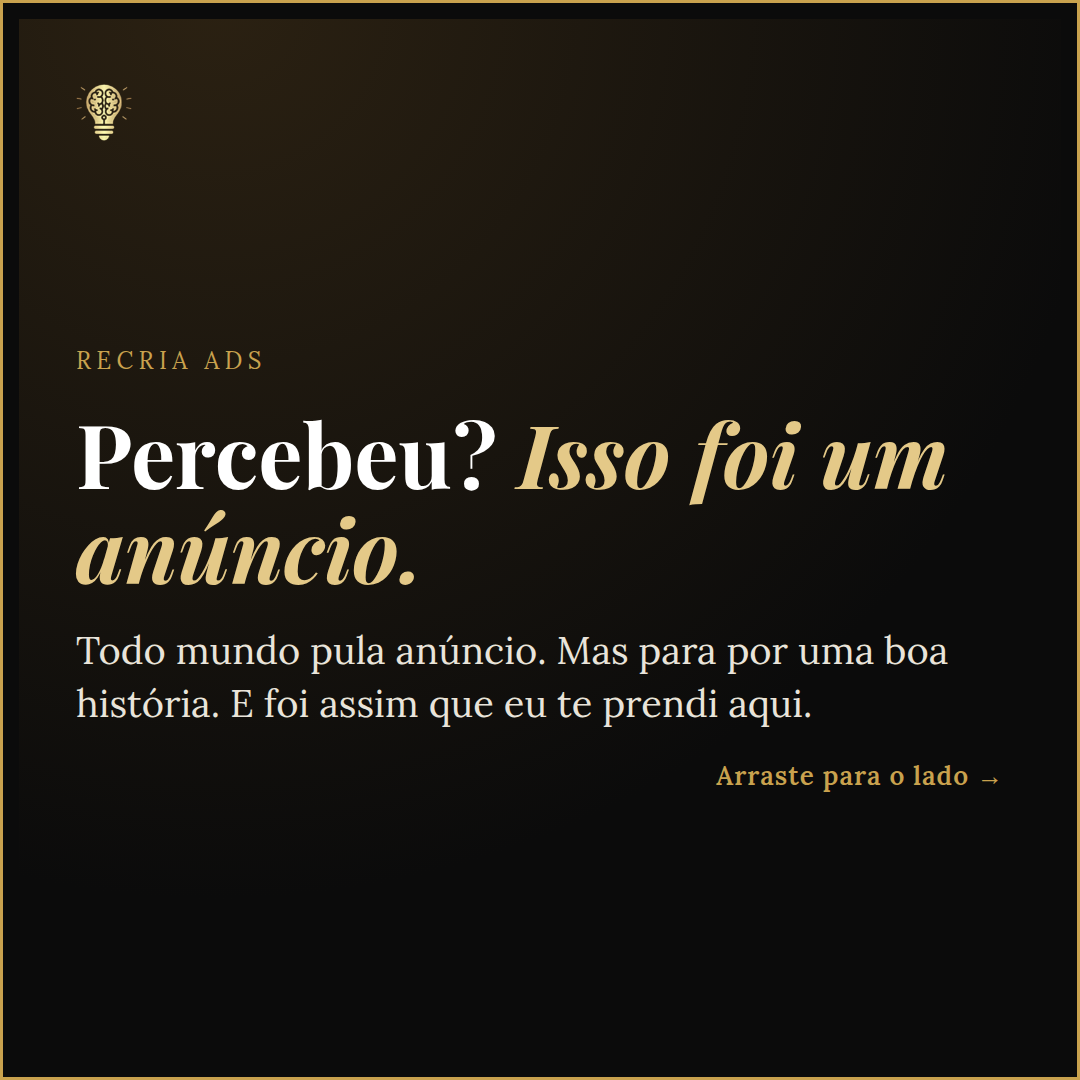
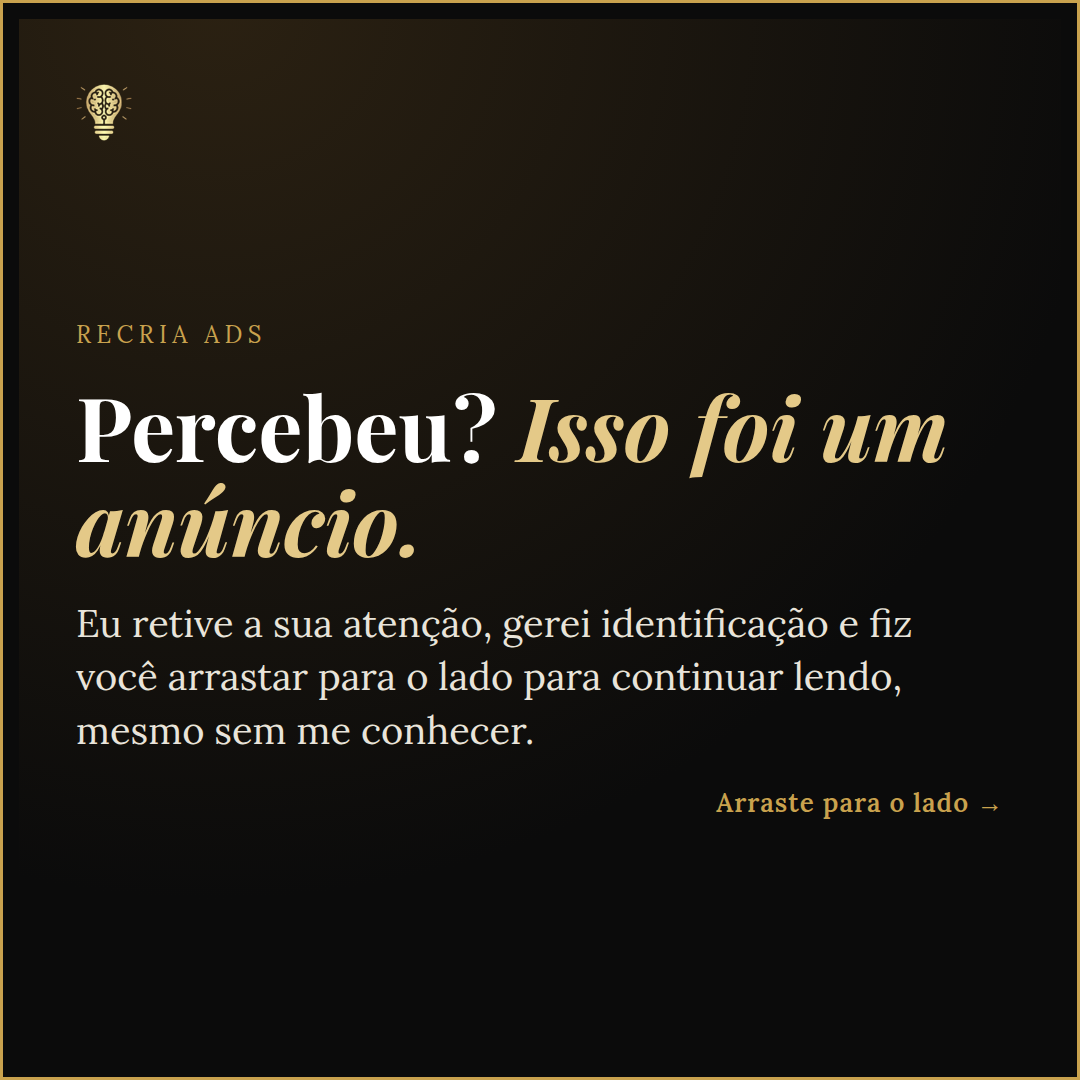
Criativo 2 do Recria Ads: carrossel de 4 cards com a nova história
Claude-Session: https://claude.ai/code/session_01DxpPKgzfVt8WYQSkZW1Msu

Changed region(s): [[0.0611, 0.3667, 0.8861, 0.7028], [0.6722, 0.7028, 0.9167, 0.7639], [0.0611, 0.3056, 0.2444, 0.3361]]

diff --git a/recria/criativos-estaticos/gerar-recria-ads.js b/recria/criativos-estaticos/gerar-recria-ads.js
@@ -7,9 +7,10 @@ const FORMATS={
 };
 const ITEMS=[
 ["ads-1-dor","Recria Ads","Você cria conteúdo e anúncio, mas <em>quase ninguém compra</em>?","Isso não é falta de esforço: é que o jeito de vender mudou. Aprenda a criar conteúdo e anúncio sem cara de anúncio e aumente as vendas do seu negócio.","Apenas 12x de R$ 10,03","Quero saber mais",""],
-["ads-2a-historia","","Você posta todo dia, o produto é bom, e <em>a única pessoa que curte é a sua tia</em>.","Aí, num dia qualquer, um perfil que você nem conhece posta uma coisa, e você para para ler até o final. Quando vê, já está querendo comprar.","","","seta1"],
-["ads-2b-revelacao","Recria Ads","Percebeu? <em>Isso foi um anúncio.</em>","Todo mundo pula anúncio. Mas para por uma boa história. E foi assim que eu te prendi aqui.","","","seta"],
-["ads-2c-oferta","Recria Ads","Aprenda a criar conteúdos e anúncios <em>sem cara de anúncio</em>.","Venda sem parecer aquele vendedor chato. Com leveza e naturalidade, até em conteúdos que não são de venda direta.","","Quero saber mais",""],
+["ads-2a-historia","","Se você tem um negócio, preciso te mostrar uma coisa que <em>pode estar te fazendo perder dinheiro ainda este mês</em>.","Eu descobri isso do jeito difícil, depois de perder dinheiro e ajustar.","","","seta1"],
+["ads-2b-revelacao","Recria Ads","Percebeu? <em>Isso foi um anúncio.</em>","Eu retive a sua atenção, gerei identificação e fiz você arrastar para o lado para continuar lendo, mesmo sem me conhecer.","","","seta"],
+["ads-2c-porque","Recria Ads","Todo mundo pula anúncio <em>com cara de anúncio</em>.","Aquele do vendedor chato, que não agrega e não desperta desejo. Mas um conteúdo que atrai faz a pessoa parar e ler até o final.","","","seta"],
+["ads-2d-oferta","Recria Ads","Chega de anúncio que ninguém quer ver. Aprenda a criar conteúdo e anúncio <em>sem cara de anúncio</em>.","Venda com leveza e naturalidade, sem parecer aquele vendedor chato.","","Quero saber mais",""],
 ["ads-3-prova","Recria Ads","Aprenda a criar conteúdos que <em>atraem, engajam e vendem</em>. Com leveza.","Olha esse carrossel do meu perfil de yoga: atraí as pessoas, elas se identificaram e comentaram “eu quero”. No direct, continuei a conversa com a oferta do meu curso e vendi. Tudo configurado de forma automatizada. Você também quer aprender?","","Quero saber mais","prova"]
 ];
 function css(f){return `

diff --git a/recria/criativos-estaticos/recria-ads/legendas-recria-ads.md b/recria/criativos-estaticos/recria-ads/legendas-recria-ads.md
@@ -9,10 +9,10 @@ No Recria Ads, você aprende a criar conteúdo e anúncio sem cara de anúncio e
 💳 Apenas 12x de R$ 10,03.
 👉 Clique em "Quero saber mais".
 
-## Criativo 2, carrossel de 3 cards (ads-2a-historia, ads-2b-revelacao, ads-2c-oferta)
-Você posta todo dia, o produto é bom, e a única pessoa que curte é a sua tia? 😅
-Arraste para o lado e veja o que aconteceu aqui. 👉
-No Recria Ads, você aprende a criar conteúdos e anúncios sem parecer aquele vendedor chato. Venda com leveza e naturalidade, até em conteúdos que não são de venda direta.
+## Criativo 2, carrossel de 4 cards (ads-2a-historia, 2b-revelacao, 2c-porque, 2d-oferta)
+Se você tem um negócio, preciso te mostrar uma coisa que pode estar te fazendo perder dinheiro ainda este mês. 👀
+Arraste para o lado. 👉
+No Recria Ads, você aprende a criar conteúdo e anúncio sem cara de anúncio e vende com leveza e naturalidade, sem parecer aquele vendedor chato.
 👉 Clique em "Quero saber mais".
 
 ## Criativo 3 (ads-3-prova.png)
